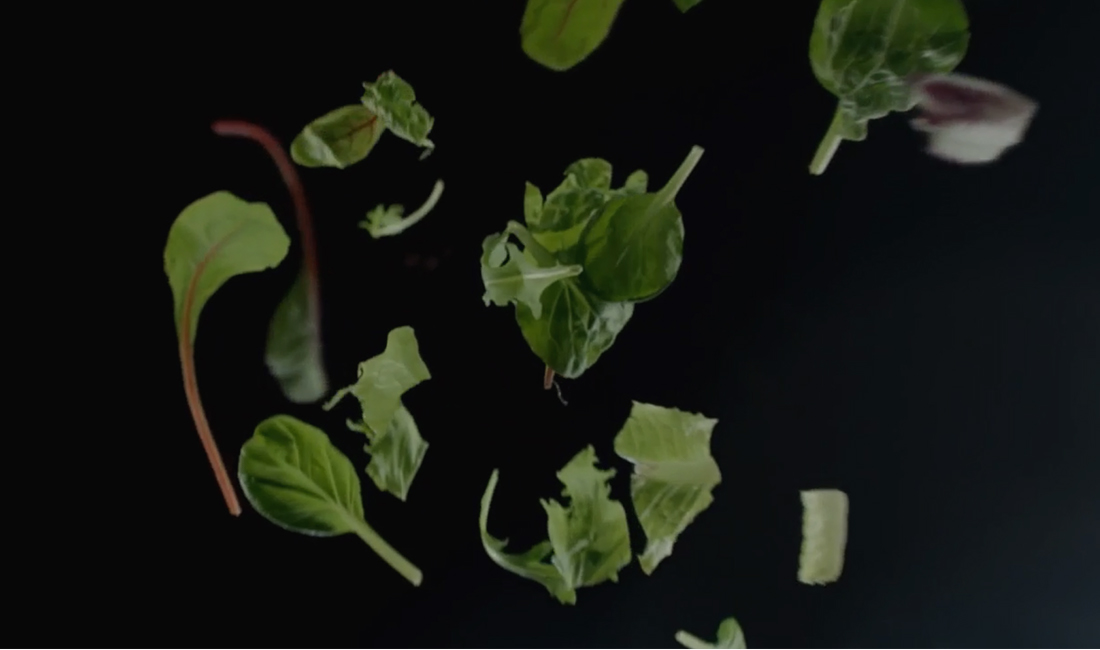
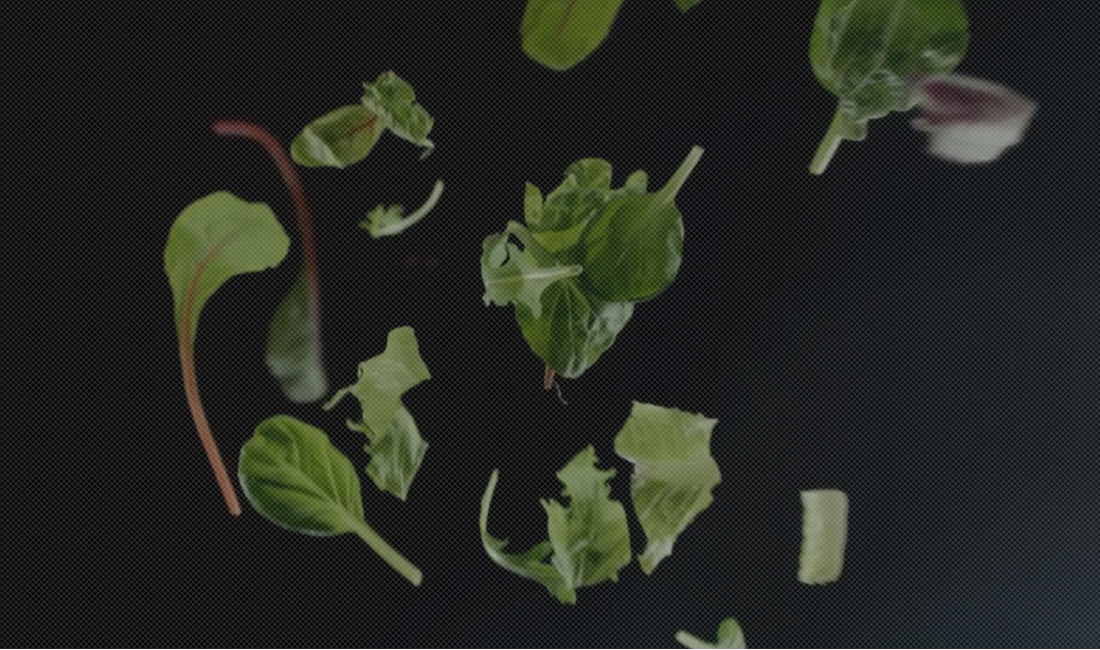
Изменен фон

Changed region(s): [[0.0, 0.0, 1.0, 1.0]]

diff --git a/css/blocks/hero.css b/css/blocks/hero.css
@@ -1,0 +1,66 @@
+/*
+Error: Undefined mixin 'Lifehack'.
+        on line 38 of /Users/romanvokhmin/LOFT/2. /Site2/css/blocks/hero.scss, in `Lifehack'
+        from line 38 of /Users/romanvokhmin/LOFT/2. /Site2/css/blocks/hero.scss
+
+33:   line-height: 1;
+34: }
+35: .hero__subtitle {
+36:   font-size: 65px;
+37:   color: #fff;
+38:   @include Lifehack;
+39:   line-height: .9;
+40: }
+
+Backtrace:
+/Users/romanvokhmin/LOFT/2. /Site2/css/blocks/hero.scss:38:in `Lifehack'
+/Users/romanvokhmin/LOFT/2. /Site2/css/blocks/hero.scss:38
+/Applications/Koala.app/Contents/Resources/app.nw/rubygems/gems/sass-3.5.2/lib/sass/tree/visitors/perform.rb:352:in `block in visit_mixin'
+/Applications/Koala.app/Contents/Resources/app.nw/rubygems/gems/sass-3.5.2/lib/sass/stack.rb:98:in `block in with_mixin'
+/Applications/Koala.app/Contents/Resources/app.nw/rubygems/gems/sass-3.5.2/lib/sass/stack.rb:135:in `with_frame'
+/Applications/Koala.app/Contents/Resources/app.nw/rubygems/gems/sass-3.5.2/lib/sass/stack.rb:98:in `with_mixin'
+/Applications/Koala.app/Contents/Resources/app.nw/rubygems/gems/sass-3.5.2/lib/sass/tree/visitors/perform.rb:350:in `visit_mixin'
+/Applications/Koala.app/Contents/Resources/app.nw/rubygems/gems/sass-3.5.2/lib/sass/tree/visitors/base.rb:36:in `visit'
+/Applications/Koala.app/Contents/Resources/app.nw/rubygems/gems/sass-3.5.2/lib/sass/tree/visitors/perform.rb:162:in `block in visit'
+/Applications/Koala.app/Contents/Resources/app.nw/rubygems/gems/sass-3.5.2/lib/sass/stack.rb:79:in `block in with_base'
+/Applications/Koala.app/Contents/Resources/app.nw/rubygems/gems/sass-3.5.2/lib/sass/stack.rb:135:in `with_frame'
+/Applications/Koala.app/Contents/Resources/app.nw/rubygems/gems/sass-3.5.2/lib/sass/stack.rb:79:in `with_base'
+/Applications/Koala.app/Contents/Resources/app.nw/rubygems/gems/sass-3.5.2/lib/sass/tree/visitors/perform.rb:162:in `visit'
+/Applications/Koala.app/Contents/Resources/app.nw/rubygems/gems/sass-3.5.2/lib/sass/tree/visitors/perform.rb:444:in `block (2 levels) in visit_rule'
+/Applications/Koala.app/Contents/Resources/app.nw/rubygems/gems/sass-3.5.2/lib/sass/tree/visitors/perform.rb:444:in `map'
+/Applications/Koala.app/Contents/Resources/app.nw/rubygems/gems/sass-3.5.2/lib/sass/tree/visitors/perform.rb:444:in `block in visit_rule'
+/Applications/Koala.app/Contents/Resources/app.nw/rubygems/gems/sass-3.5.2/lib/sass/tree/visitors/perform.rb:183:in `with_environment'
+/Applications/Koala.app/Contents/Resources/app.nw/rubygems/gems/sass-3.5.2/lib/sass/tree/visitors/perform.rb:442:in `visit_rule'
+/Applications/Koala.app/Contents/Resources/app.nw/rubygems/gems/sass-3.5.2/lib/sass/tree/visitors/base.rb:36:in `visit'
+/Applications/Koala.app/Contents/Resources/app.nw/rubygems/gems/sass-3.5.2/lib/sass/tree/visitors/perform.rb:162:in `block in visit'
+/Applications/Koala.app/Contents/Resources/app.nw/rubygems/gems/sass-3.5.2/lib/sass/stack.rb:79:in `block in with_base'
+/Applications/Koala.app/Contents/Resources/app.nw/rubygems/gems/sass-3.5.2/lib/sass/stack.rb:135:in `with_frame'
+/Applications/Koala.app/Contents/Resources/app.nw/rubygems/gems/sass-3.5.2/lib/sass/stack.rb:79:in `with_base'
+/Applications/Koala.app/Contents/Resources/app.nw/rubygems/gems/sass-3.5.2/lib/sass/tree/visitors/perform.rb:162:in `visit'
+/Applications/Koala.app/Contents/Resources/app.nw/rubygems/gems/sass-3.5.2/lib/sass/tree/visitors/base.rb:52:in `block in visit_children'
+/Applications/Koala.app/Contents/Resources/app.nw/rubygems/gems/sass-3.5.2/lib/sass/tree/visitors/base.rb:52:in `map'
+/Applications/Koala.app/Contents/Resources/app.nw/rubygems/gems/sass-3.5.2/lib/sass/tree/visitors/base.rb:52:in `visit_children'
+/Applications/Koala.app/Contents/Resources/app.nw/rubygems/gems/sass-3.5.2/lib/sass/tree/visitors/perform.rb:171:in `block in visit_children'
+/Applications/Koala.app/Contents/Resources/app.nw/rubygems/gems/sass-3.5.2/lib/sass/tree/visitors/perform.rb:183:in `with_environment'
+/Applications/Koala.app/Contents/Resources/app.nw/rubygems/gems/sass-3.5.2/lib/sass/tree/visitors/perform.rb:170:in `visit_children'
+/Applications/Koala.app/Contents/Resources/app.nw/rubygems/gems/sass-3.5.2/lib/sass/tree/visitors/base.rb:36:in `block in visit'
+/Applications/Koala.app/Contents/Resources/app.nw/rubygems/gems/sass-3.5.2/lib/sass/tree/visitors/perform.rb:190:in `visit_root'
+/Applications/Koala.app/Contents/Resources/app.nw/rubygems/gems/sass-3.5.2/lib/sass/tree/visitors/base.rb:36:in `visit'
+/Applications/Koala.app/Contents/Resources/app.nw/rubygems/gems/sass-3.5.2/lib/sass/tree/visitors/perform.rb:161:in `visit'
+/Applications/Koala.app/Contents/Resources/app.nw/rubygems/gems/sass-3.5.2/lib/sass/tree/visitors/perform.rb:10:in `visit'
+/Applications/Koala.app/Contents/Resources/app.nw/rubygems/gems/sass-3.5.2/lib/sass/tree/root_node.rb:36:in `css_tree'
+/Applications/Koala.app/Contents/Resources/app.nw/rubygems/gems/sass-3.5.2/lib/sass/tree/root_node.rb:29:in `render_with_sourcemap'
+/Applications/Koala.app/Contents/Resources/app.nw/rubygems/gems/sass-3.5.2/lib/sass/engine.rb:389:in `_render_with_sourcemap'
+/Applications/Koala.app/Contents/Resources/app.nw/rubygems/gems/sass-3.5.2/lib/sass/engine.rb:307:in `render_with_sourcemap'
+/Applications/Koala.app/Contents/Resources/app.nw/rubygems/gems/sass-3.5.2/lib/sass/exec/sass_scss.rb:391:in `run'
+/Applications/Koala.app/Contents/Resources/app.nw/rubygems/gems/sass-3.5.2/lib/sass/exec/sass_scss.rb:63:in `process_result'
+/Applications/Koala.app/Contents/Resources/app.nw/rubygems/gems/sass-3.5.2/lib/sass/exec/base.rb:52:in `parse'
+/Applications/Koala.app/Contents/Resources/app.nw/rubygems/gems/sass-3.5.2/lib/sass/exec/base.rb:19:in `parse!'
+/Applications/Koala.app/Contents/Resources/app.nw/rubygems/gems/sass-3.5.2/bin/sass:13:in `<top (required)>'
+/Applications/Koala.app/Contents/Resources/app.nw/bin/sass:22:in `load'
+/Applications/Koala.app/Contents/Resources/app.nw/bin/sass:22:in `<main>'
+*/
+body:before {
+  white-space: pre;
+  font-family: monospace;
+  content: "Error: Undefined mixin 'Lifehack'.\A         on line 38 of /Users/romanvokhmin/LOFT/2. /Site2/css/blocks/hero.scss, in `Lifehack'\A         from line 38 of /Users/romanvokhmin/LOFT/2. /Site2/css/blocks/hero.scss\A \A 33:   line-height: 1;\A 34: }\A 35: .hero__subtitle {\A 36:   font-size: 65px;\A 37:   color: #fff;\A 38:   @include Lifehack;\A 39:   line-height: .9;\A 40: }"; }

diff --git a/css/main.css b/css/main.css
@@ -401,7 +401,7 @@ textarea {
   font-style: normal; }
 @font-face {
   font-family: 'Lifehack';
-  src: url("/css/fonts/Lifehack-Medium.woff") format("woff");
+  src: url("../css/fonts/Lifehack-Medium.woff") format("woff");
   font-weight: 500;
   font-style: normal; }
 .section {
@@ -416,14 +416,6 @@ textarea {
 .hero {
   background: url("../../img/main-bg.jpg") center center/cover no-repeat;
   position: relative; }
-  .hero:after {
-    content: '';
-    background-image: url("../../img/texture.png");
-    position: absolute;
-    top: 0;
-    bottom: 0;
-    left: 0;
-    right: 0; }
 
 .hero__container {
   height: 100%; }

diff --git a/css/blocks/hero.scss b/css/blocks/hero.scss
@@ -2,15 +2,15 @@
   background: url("../../img/main-bg.jpg") center center / cover no-repeat;
   position: relative;
 
-  &:after {
-    content: '';
-    background-image: url('../../img/texture.png');
-    position: absolute;
-    top: 0;
-    bottom: 0;
-    left: 0;
-    right: 0;
-  }
+  // &:after {
+  //   content: '';
+  //   background-image: url('../../img/texture.png');
+  //   position: absolute;
+  //   top: 0;
+  //   bottom: 0;
+  //   left: 0;
+  //   right: 0;
+  // }
 }
 .hero__container {
   height: 100%;

diff --git a/css/layout/fonts.css b/css/layout/fonts.css
@@ -25,7 +25,7 @@
   font-style: normal; }
 @font-face {
   font-family: 'Lifehack';
-  src: url("/css/fonts/Lifehack-Medium.woff") format("woff");
+  src: url("../css/fonts/Lifehack-Medium.woff") format("woff");
   font-weight: 500;
   font-style: normal; }
 

diff --git a/css/layout/fonts.scss b/css/layout/fonts.scss
@@ -39,7 +39,7 @@ $style: 300;
 }
 @font-face {
   font-family: 'Lifehack';
-  src: url('/css/fonts/Lifehack-Medium.woff') format('woff');
+  src: url('../css/fonts/Lifehack-Medium.woff') format('woff');
   font-weight: 500;
   font-style: normal;
 }
